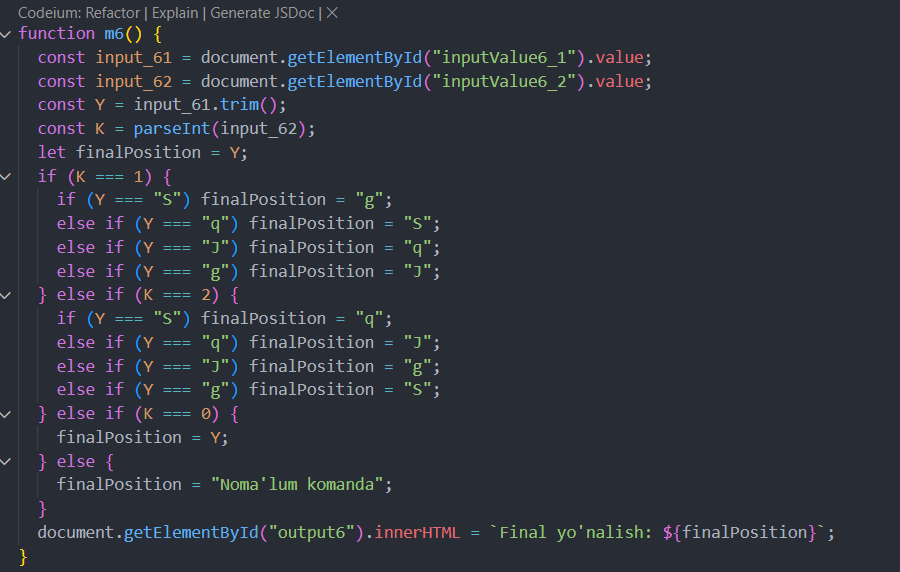
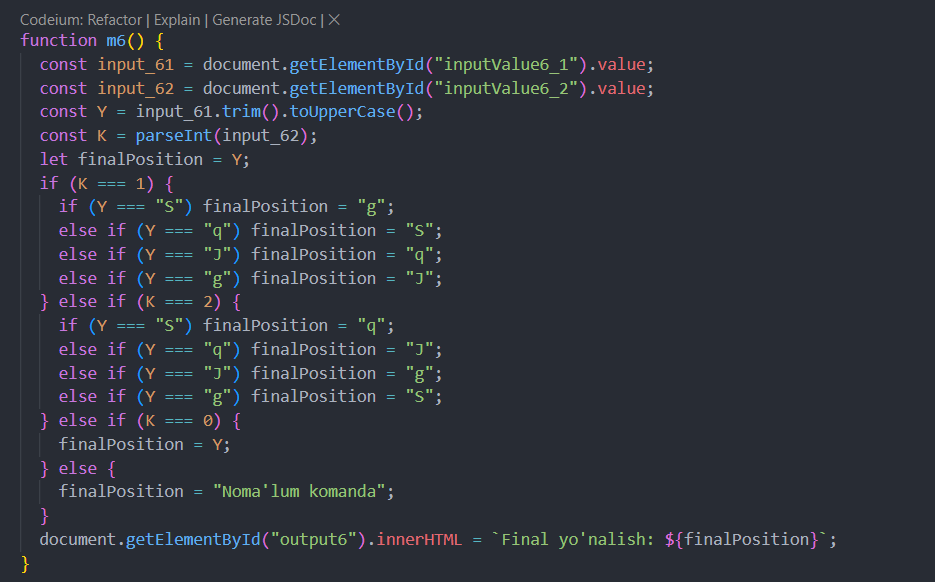
Done succes

diff --git a/index.html b/index.html
@@ -37,7 +37,6 @@
           <a href="#third">Third</a>
           <a href="#fivth">Fivth</a>
           <a href="#sixth">Sixth</a>
-          <a href="#seventh">Seventh</a>
         </nav>
         <div class="btns button-85">
           <a
@@ -205,7 +204,7 @@
           alt=""
         />
       </section>
-      <section id="sixth">
+      <section id="sixth" style="margin-bottom: 100px;">
         <div id="content">
           <h2 class="limited-line">
             <span >6-masala.</span> Robot faqat 4 ta tomonga ko‘cha oladi.
@@ -280,9 +279,7 @@
           <a href="#second">Second</a>
           <a href="#third">Third</a>
           <a href="#fivth">Fivth</a>
-          <a href="#sixth">Sixth</a>
-          <a href="#seventh">Seventh</a>
-        </nav>
+          <a href="#sixth">Sixth</a>        </nav>
       </div>
       <p>&copy; 2024 JavaScript Algorithms by Mr.Abdulloh.</p>
     </footer>

diff --git a/app.js b/app.js
@@ -188,7 +188,7 @@ function m5() {
 function m6() {
   const input_61 = document.getElementById("inputValue6_1").value;
   const input_62 = document.getElementById("inputValue6_2").value; 
-  const Y = input_61.trim(); 
+  const Y = input_61.trim().toUpperCase(); 
   const K = parseInt(input_62); 
   let finalPosition = Y; 
   if (K === 1) {
@@ -208,6 +208,9 @@ function m6() {
   }
   document.getElementById("output6").innerHTML = `Final yo'nalish: ${finalPosition}`;
 }
+
+
+
 
 
 // SOME FUNCTION -=-=-=-=-=-=-=-=-=-=-=-=-=-=-=-=-=-=-=-=-=-=-=-=-=-=-=-=-=-=-=-=-=-
